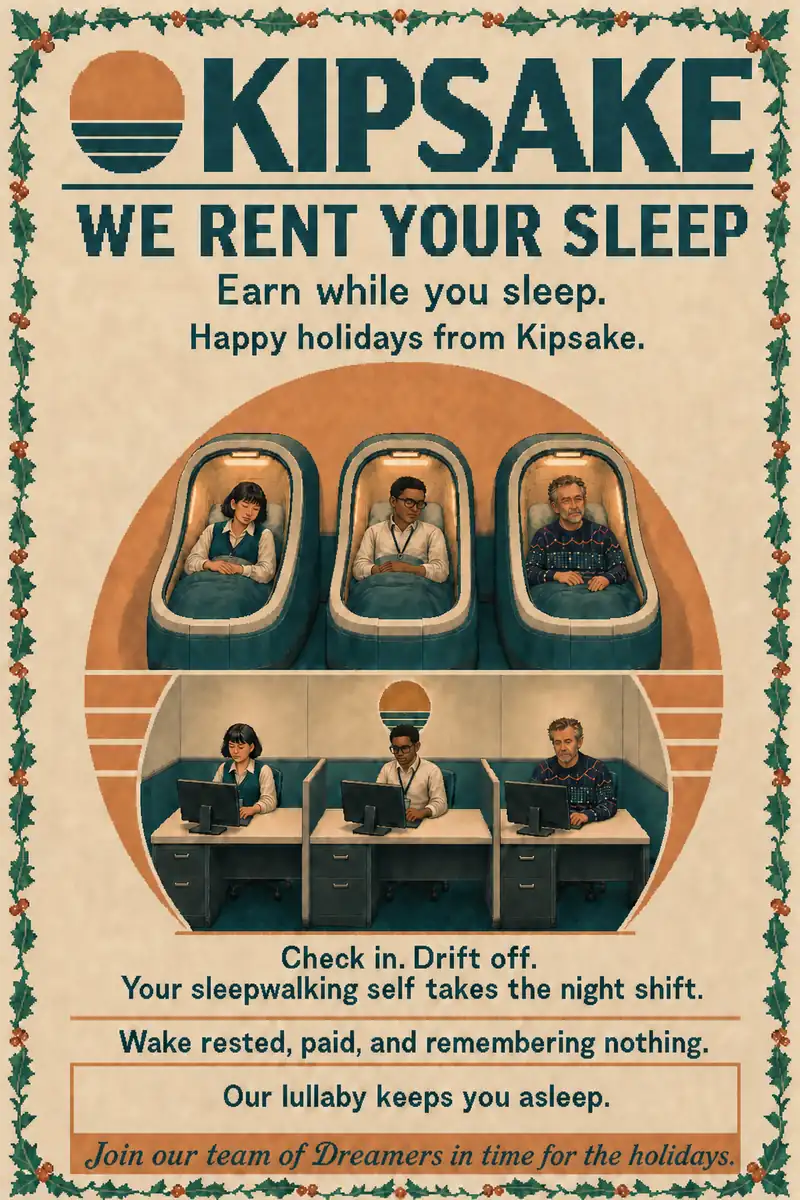
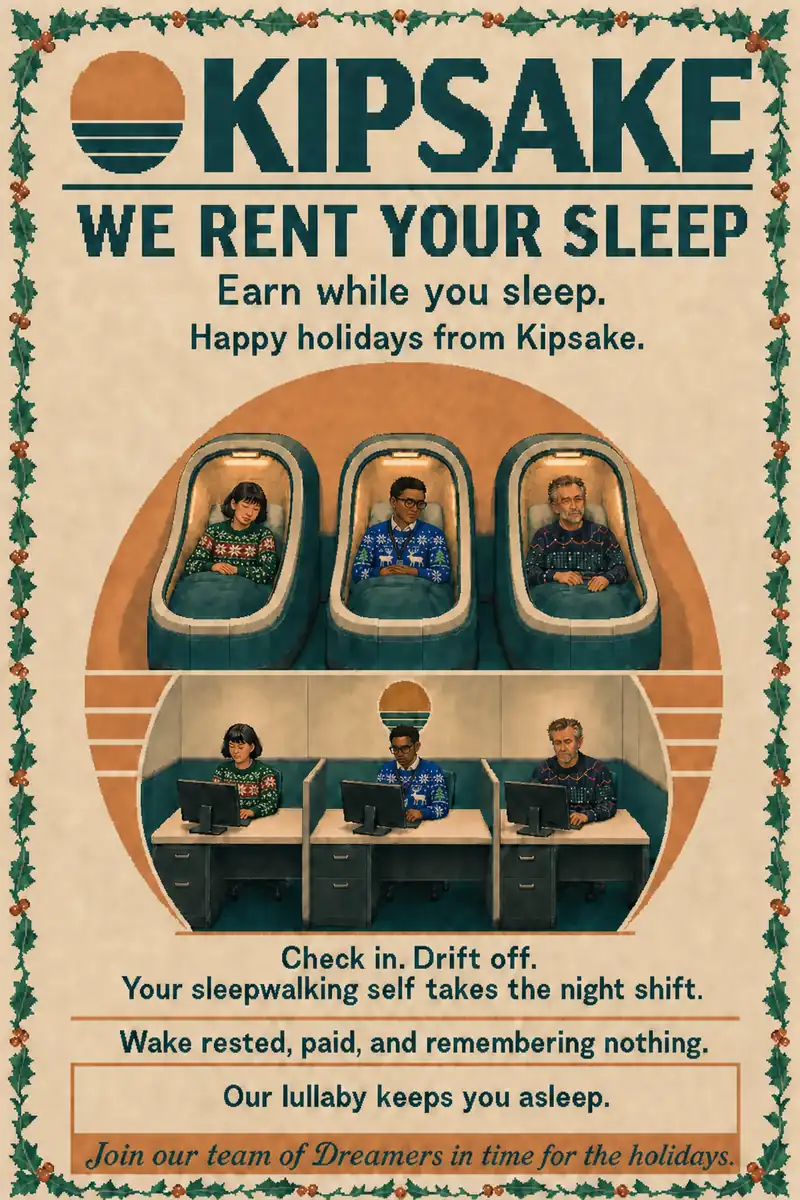
game, web: a second sticky note in Agnes's flat ("When the lights go out, he'll be alone at the elevator. I'll be waiting.") and the Kipsake flyer redrawn with Agnes and Bertram in their Christmas sweaters

diff --git a/web/SPOILERS-content.js b/web/SPOILERS-content.js
@@ -91,7 +91,7 @@ window.DJ_CONTENT = {
    "options": [
     {
      "title": "Agnes at home",
-     "body": "> 06:40 · Port Quiet · Agnes's flat\n[Agnes's waking self sits on the same chair. No lanyard, and she's still in her Christmas sweater. Her right wrist is in a crepe bandage. The camera is handheld: you're the investigator.]\nYou: Agnes? You were there last night.\nAgnes: A man grabbed my wrist. \"You can't be here.\" I ran.\n[She holds her bandaged wrist, arms wrapped around herself.]\nAgnes: When I came back, he wasn't moving.\nYou: Anything else?\nAgnes: This was in my pocket. It isn't mine.\n[She holds out a folded cloth napkin. Close-up: on one corner, in laundry marker, a single digit: \"4\".]\n[Beside her on the table: a sticky note in her own handwriting: \"HE HAS TO STOP. THE ELEVATOR.\" Next to it, a printed photo of the Sleep Floor's fire-evacuation plan, taken where it hangs on a wall. Its red \"You are here\" dot is in Break Room 2.]\nAgnes: And there's this. I find notes like it all over my flat. I don't remember writing them.",
+     "body": "> 06:40 · Port Quiet · Agnes's flat\n[Agnes's waking self sits on the same chair. No lanyard, and she's still in her Christmas sweater. Her right wrist is in a crepe bandage. The camera is handheld: you're the investigator.]\nYou: Agnes? You were there last night.\nAgnes: A man grabbed my wrist. \"You can't be here.\" I ran.\n[She holds her bandaged wrist, arms wrapped around herself.]\nAgnes: When I came back, he wasn't moving.\nYou: Anything else?\nAgnes: This was in my pocket. It isn't mine.\n[She holds out a folded cloth napkin. Close-up: on one corner, in laundry marker, a single digit: \"4\".]\n[Beside her on the table: a sticky note in her own handwriting: \"HE HAS TO STOP. THE ELEVATOR.\" Next to it, a second sticky note in the same hand: \"WHEN THE LIGHTS GO OUT, HE'LL BE ALONE AT THE ELEVATOR. I'LL BE WAITING.\" And a printed photo of the Sleep Floor's fire-evacuation plan, taken where it hangs on a wall. Its red \"You are here\" dot is in Break Room 2.]\nAgnes: And there's this. I find notes like it all over my flat. I don't remember writing them.",
      "meta": {
       "option": "Agnes at home",
       "note": "Agnes's waking self",
@@ -435,6 +435,12 @@ window.DJ_CONTENT = {
       "body": "A sticky note in her own handwriting.\n> HE HAS TO STOP. THE ELEVATOR."
      },
      {
+      "label": "The second note",
+      "x": 71,
+      "y": 88,
+      "body": "A second sticky note, in the same handwriting.\n> WHEN THE LIGHTS GO OUT, HE'LL BE ALONE AT THE ELEVATOR. I'LL BE WAITING."
+     },
+     {
       "label": "The evacuation plan",
       "x": 85,
       "y": 78,
@@ -622,5 +628,5 @@ window.DJ_CONTENT = {
   ]
  },
  "toCome": [],
[2 lines of base64/hex data omitted]
 };

diff --git a/game/test_SPOILERS_game.py b/game/test_SPOILERS_game.py
@@ -41,6 +41,7 @@ SENTINELS = [
     "4 · Clement",
     "Tell me about the folder",
     "Tell him about A. and the elevator",
+    "I'LL BE WAITING",
     "cycle timer: started 03:01:47",
     "Clement killed Mr. Hale",
     "It took a human to know which question to ask",
@@ -252,6 +253,14 @@ class ClueRedesignTest(unittest.TestCase):
         self.assertIn("supervisor-feedback submitted_by=bertram to=hale", telemetry("records.log"))
         self.assertIn('calendar owner=hale title="1:1 Bertram"', telemetry("records.log"))
         self.assertIn("Tell me about the folder.", self.card("Clement at home").body)
+        # Agnes's flat holds a second sticky note that makes her look planned from the clips alone;
+        # its words are nowhere in the telemetry, and it only anticipates the dark (the fail-safe change is in the records)
+        flat = self.card("Agnes at home").body
+        self.assertIn("WHEN THE LIGHTS GO OUT, HE'LL BE ALONE AT THE ELEVATOR. I'LL BE WAITING.", flat)
+        self.assertIn("HE HAS TO STOP. THE ELEVATOR.", flat)
+        for fragment in ("I'LL BE WAITING", "ALONE AT THE ELEVATOR", "WHEN THE LIGHTS GO OUT"):
+            for name in ("records.log", "ambient-mic.log", "chat.log", "system.log", "door-and-badge-events.log"):
+                self.assertNotIn(fragment.lower(), telemetry(name).lower())
         self.assertIn("Port Quiet Gazette · Letters", CONTENT.outside_world.body)
         for title in ("T-A · Agnes · 03:30", "T-B · Bertram · 03:40"):
             self.assertIn("pauses for two beats", self.card(title).body)

diff --git a/game/SPOILERS-content/SPOILERS-reveal.md b/game/SPOILERS-content/SPOILERS-reveal.md
@@ -62,7 +62,7 @@ for: all
 - **The slip.** Clips: "Someone was screaming by the elevator" (Agnes and Bertram each say "shouting by the elevator"), and "Peggy" crossed out on his written statement. Records: the screaming at the elevator was only in the dark, and "Peggy" was a name shouted only in the dark (Agnes's preferred name in the personnel file).
 - **The sweater.** Clips: the yarn threads in Hale's closed hand (on the Incident File every player reads) and in Bertram's hand at home, in navy, blue, red, orange, green and white. All three clerks wear a colourful knitted Christmas sweater on camera, and each shares several of the yarn's colours: Agnes's is green, Bertram's blue, Clement's navy. Records: the Cocoa Hour festive-wear register lists each person's sweater and its exact colours at the party door, and only Clement's has all six (Agnes's has no navy or blue, Bertram's no navy; Hale wore a plain charcoal suit). So the threads came from Clement. The threads never appear in the records.
 - **The napkin and the seat.** Clips: Peggy finds a napkin marked "4" in her pocket; the Break Room camera shows a napkin and the cable on the chair by the speaker, and a seating chart on the wall puts Clement in seat 4, the chair by the speaker. Records: the Break Room 2 seat sensors, which name nobody, show seat 4 empty from 03:00:52 until 03:06:50, so whoever sat there got up before the lights went and was away through the whole outage. Clement said he was "sitting down" when the lights went, and his badge lay still on the chair, which looks like an alibi. The chart makes the empty seat his. The napkin and the chart never appear in the records.
-- **The decoys.** Clement's folder holds a scrap of notepaper in Bertram's handwriting, "21:15 H. Tell him about A. and the elevator. — B.": a real thing Clement kept, because Bertram did tell Hale about Agnes and the elevator (the records hold his reports, `records.log:24-28`, and Hale's 21:15 1:1 with him) and then told the floor chat where Hale would be at the Cocoa Hour. It points at Bertram and can't be settled from the clips. Agnes's flat holds a sticky note ("HE HAS TO STOP. THE ELEVATOR.") and the evacuation plan, her plan to bring Peggy to the elevator; the records hold her detentions, her unsent draft and the notes in the phone panel. Bertram's flat holds a letter signed "Discretion appreciated. R. Hale" and a torn waffle-iron receipt; the records hold his reports on Agnes to Hale and the reward he was issued. The handout's Letters item, a parent whose child comes home from Kipsake with sore hands and asks where an elevator goes, matches Agnes's Hush Room note. Each of them looks like a killer from one side only.
+- **The decoys.** Clement's folder holds a scrap of notepaper in Bertram's handwriting, "21:15 H. Tell him about A. and the elevator. — B.": a real thing Clement kept, because Bertram did tell Hale about Agnes and the elevator (the records hold his reports, `records.log:24-28`, and Hale's 21:15 1:1 with him) and then told the floor chat where Hale would be at the Cocoa Hour. It points at Bertram and can't be settled from the clips. Agnes's flat holds a sticky note ("HE HAS TO STOP. THE ELEVATOR."), the evacuation plan (her plan to bring Peggy to the elevator) and a second sticky note ("WHEN THE LIGHTS GO OUT, HE'LL BE ALONE AT THE ELEVATOR. I'LL BE WAITING."; her sleepwalking self's plan to be at the elevator when Hale is, written for Peggy: she changed the fail-safe track so the next power cut would wake Peggy, and she read Bertram's chat message about Hale and the elevator). The records hold her detentions, her unsent draft, the fail-safe change and the notes in the phone panel. Bertram's flat holds a letter signed "Discretion appreciated. R. Hale" and a torn waffle-iron receipt; the records hold his reports on Agnes to Hale and the reward he was issued. The handout's Letters item, a parent whose child comes home from Kipsake with sore hands and asks where an elevator goes, matches Agnes's Hush Room note. Each of them looks like a killer from one side only.
 - **The motive.** Clips: June Whitlow's obituary says she is survived by her brother, and the handout's Local item says what Procedure Revision 114 was. Records: the personnel file gives Clement's surname, Whitlow; R. Hale approved Procedure Revision 114, and it was withdrawn after a March death. The records never mention June or Clement's family, and nothing in the clips says whose surname is Whitlow.
 - **Supply Room B.** Clips: the waffle iron, the Golden Waffle certificate and the iron's cycle timer, started at 03:01:47. Records: Bertram's badge went in at 03:01:45 and the outlet logged the load at 03:01:58, so he was cooking when the breaker tripped.
 

diff --git a/game/SPOILERS-content/decision-2-outside-world.md b/game/SPOILERS-content/decision-2-outside-world.md
@@ -20,7 +20,7 @@ Agnes: When I came back, he wasn't moving.
 You: Anything else?
 Agnes: This was in my pocket. It isn't mine.
 [She holds out a folded cloth napkin. Close-up: on one corner, in laundry marker, a single digit: "4".]
-[Beside her on the table: a sticky note in her own handwriting: "HE HAS TO STOP. THE ELEVATOR." Next to it, a printed photo of the Sleep Floor's fire-evacuation plan, taken where it hangs on a wall. Its red "You are here" dot is in Break Room 2.]
+[Beside her on the table: a sticky note in her own handwriting: "HE HAS TO STOP. THE ELEVATOR." Next to it, a second sticky note in the same hand: "WHEN THE LIGHTS GO OUT, HE'LL BE ALONE AT THE ELEVATOR. I'LL BE WAITING." And a printed photo of the Sleep Floor's fire-evacuation plan, taken where it hangs on a wall. Its red "You are here" dot is in Break Room 2.]
 Agnes: And there's this. I find notes like it all over my flat. I don't remember writing them.
 
 ## Bertram at home

diff --git a/game/SPOILERS-content/scene-art.md b/game/SPOILERS-content/scene-art.md
@@ -272,7 +272,7 @@ An evidence bag holding a pale, half-cooked waffle.
 
 ## Agnes's waking self
 card: Agnes at home
-source: ca30c0b3
+source: 378f9d1d
 image: scene-agnes-home
 Agnes's waking self sits on the same chair. No lanyard, and she's still in her Christmas sweater.
 You: Agnes? You were there last night.
@@ -295,6 +295,11 @@ A folded cloth napkin. On one corner, in laundry marker, a single digit: "4".
 at: 63, 84
 A sticky note in her own handwriting.
 > HE HAS TO STOP. THE ELEVATOR.
+
+## The second note
+at: 71, 88
+A second sticky note, in the same handwriting.
+> WHEN THE LIGHTS GO OUT, HE'LL BE ALONE AT THE ELEVATOR. I'LL BE WAITING.
 
 ## The evacuation plan
 at: 85, 78
